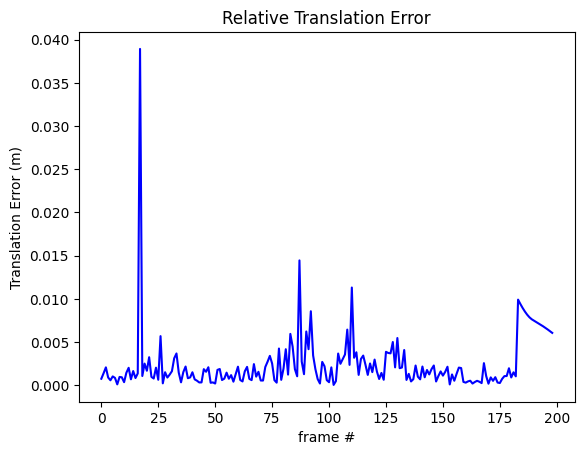
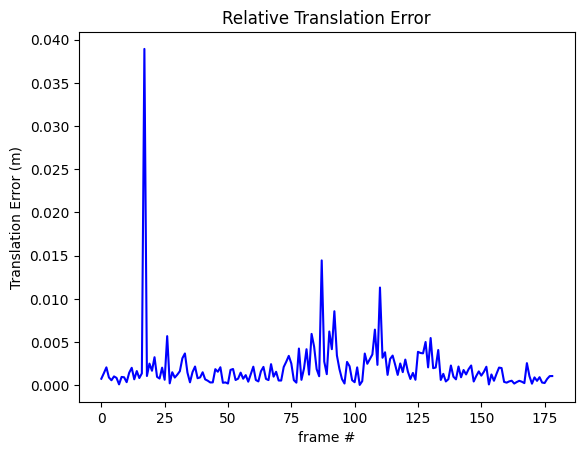
..

diff --git a/config.py b/config.py
@@ -35,8 +35,7 @@ class Config(DefaultConfig):
             self.parse_detector(self.experiment["detector"])
             self.parse_extractor(self.experiment["extractor"])
         except Exception as ex:
-            print(ex)
-
+            pass
 
     def parse_lk_params(self, lk_parmas_dict):
         params = {} if lk_parmas_dict is None else lk_parmas_dict
@@ -50,7 +49,7 @@ class Config(DefaultConfig):
                     params["criteria"] = (criteria_one | criteria_two, max_iterations, epsilon)
             self.lk_params = params
         except Exception as ex:
-            print(ex)
+            pass
 
     def parse_detector(self, detector_string):
         params = {} if self.detector_params is None else self.detector_params
@@ -67,10 +66,8 @@ class Config(DefaultConfig):
             self.detector = detector.ORB(**params)
         elif detector_string.upper() == "AKAZE":
             self.detector = detector.AKAZE(**params)
-        elif detector_string.upper() == "HARRIS":
-            self.detector = detector.HarrisDetector()
         elif detector_string.upper() == "SHI-TOMASI":
-            self.detector = detector.ShiTomasiDetector()
+            self.detector = detector.ShiTomasiDetector(**params)
         else:
             raise ModuleNotFoundError(f"No detector <{detector_string}> found.")
 

diff --git a/eval.py b/eval.py
@@ -1,5 +1,6 @@
 import utils
 import numpy as np
+from utils import init_logger
 
 
 class Eval:
@@ -161,8 +162,7 @@ class Eval:
             self.inlier_ratios.append(self.vo.inlier_ratio)
 
     def evaluate(self, traj=None):
-        import logging
-        from utils import init_logger
+
         result = {'name': self.name}
 
         # Create result directory
@@ -173,9 +173,6 @@ class Eval:
         utils.create_dir(res_dir)
         utils.create_dir(plot_path)
         utils.create_dir(log_path)
-
-        # Initialize logger
-        init_logger(log_path)
 
         # Absolute poses
         gt_poses, vo_poses = self.gt_poses, self.vo_poses
@@ -272,6 +269,9 @@ class Eval:
         if traj is not None:
             import cv2
             cv2.imwrite(f'{plot_path}/2d_live_traj.png', traj)
+
+        # Initialize logger
+        init_logger(log_path)
 
         # Write to log
         utils.pretty_log(result)

diff --git a/detector.py b/detector.py
@@ -35,19 +35,15 @@ class DetectorDescriptorInterface:
 		self.des_extractor = extractor
 
 
-class HarrisDetector(DetectorDescriptorInterface):
-	def __init__(self, des_extractor=None, **params):
-		super().__init__(des_extractor, as_extractor=False)
-
-
 class ShiTomasiDetector(DetectorDescriptorInterface):
 	def __init__(self, des_extractor=None, **params):
 		super().__init__(des_extractor, as_extractor=False)
+		print(params)
+		self.detector = cv2.GFTTDetector_create(**params)
 
 	def get_keypoints(self, frame):
-		corners = cv2.goodFeaturesToTrack(frame, **self.params)
-		kp = [cv2.KeyPoint(x=f[0][0], y=f[0][1], _size=1) for f in corners]
-
+		kp = self.detector.detect(frame)
+		print(len(kp))
 		return kp
 
 	def get_descriptors(self, frame, kp):

diff --git a/visualizer.py b/visualizer.py
@@ -18,11 +18,17 @@ class VO_Visualizer:
 				orig_img = cv2.circle(orig_img, (int(a), int(b)), 2, color=(255, 255, 0), thickness=2,
 									  lineType=cv2.LINE_AA)
 
+	def show_frame_nr(self, orig_img):
+		text = f" {self.vo.frame_id}"
+		cv2.putText(orig_img, text, (920, 50), cv2.FONT_HERSHEY_PLAIN, 4, (255, 255, 255), 2, 8)
+
 	def show(self, img, orig_img):
 		cv2.namedWindow('Snake Robot Camera', cv2.WINDOW_NORMAL)
 		cv2.resizeWindow('Snake Robot Camera', self.W, self.H // 2)
 
 		self.visualize_key_points(orig_img)
+
+		self.show_frame_nr(orig_img)
 
 		hstack = np.hstack((orig_img, img))
 		cv2.imshow('Snake Robot Camera', hstack)

diff --git a/main.py b/main.py
@@ -26,8 +26,8 @@ def run(configuration: dict):
 	vo_visualizer = VO_Visualizer(vo, W, H)
 
 	# Fetch and initialize preprocessing of images
-	orig_images = preprocess_images(image_path, default=True)[:200]
-	preprocessed_images = preprocess_images(image_path, morphology=config.toggle_morphology)[:200]
+	orig_images = preprocess_images(image_path, default=True)[:180]
+	preprocessed_images = preprocess_images(image_path, morphology=config.toggle_morphology)[:180]
 
 	# Run
 	for i, img in enumerate(preprocessed_images):

diff --git a/visual_odometry.py b/visual_odometry.py
@@ -46,6 +46,7 @@ class VisualOdometry:
 
         self.cur_runtime = 0
 
+        print(config.name)
         self.detector = config.detector
         self.detector.set_extractor(config.extractor)
         self.correspondence_method = config.correspondence_method
